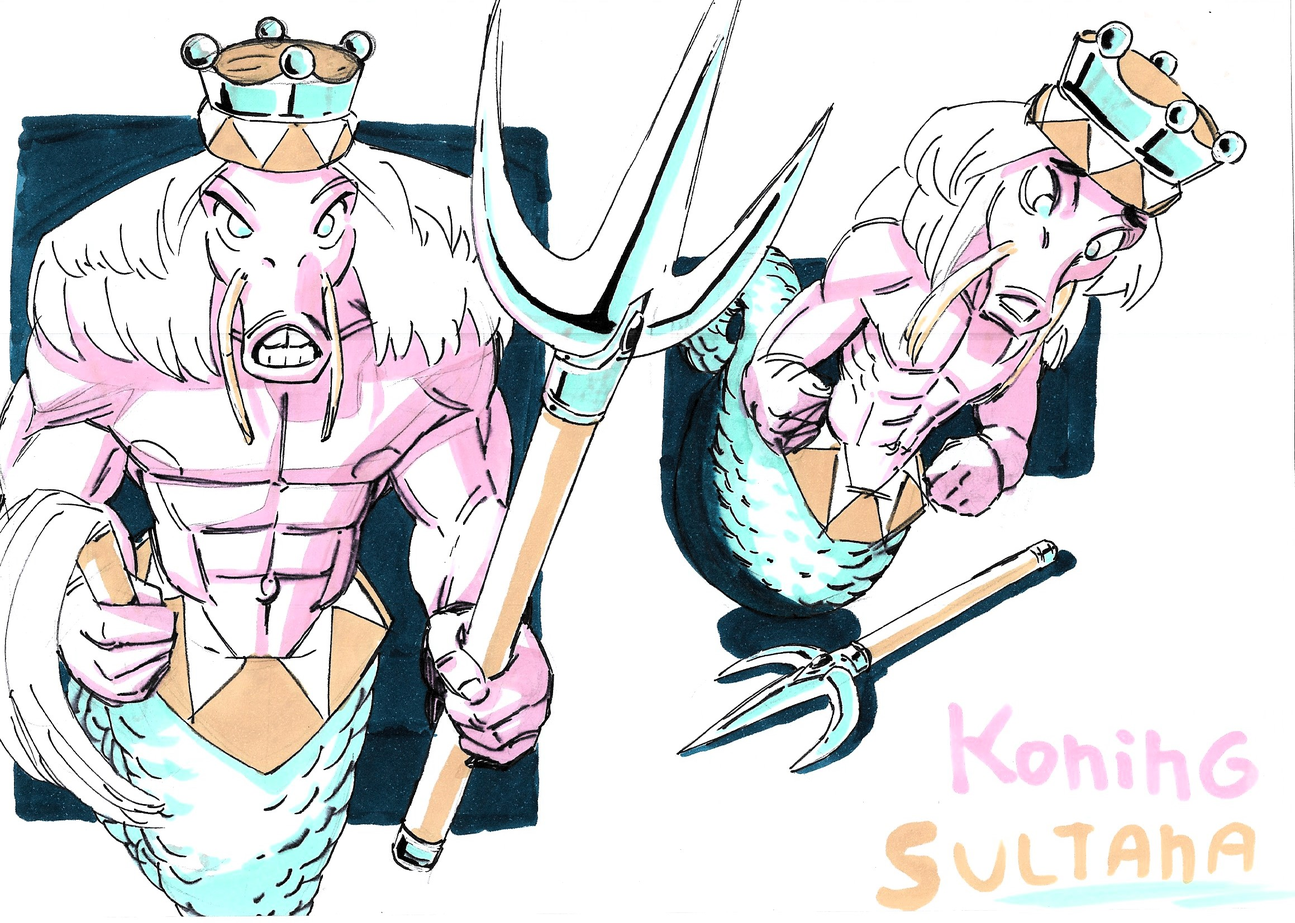
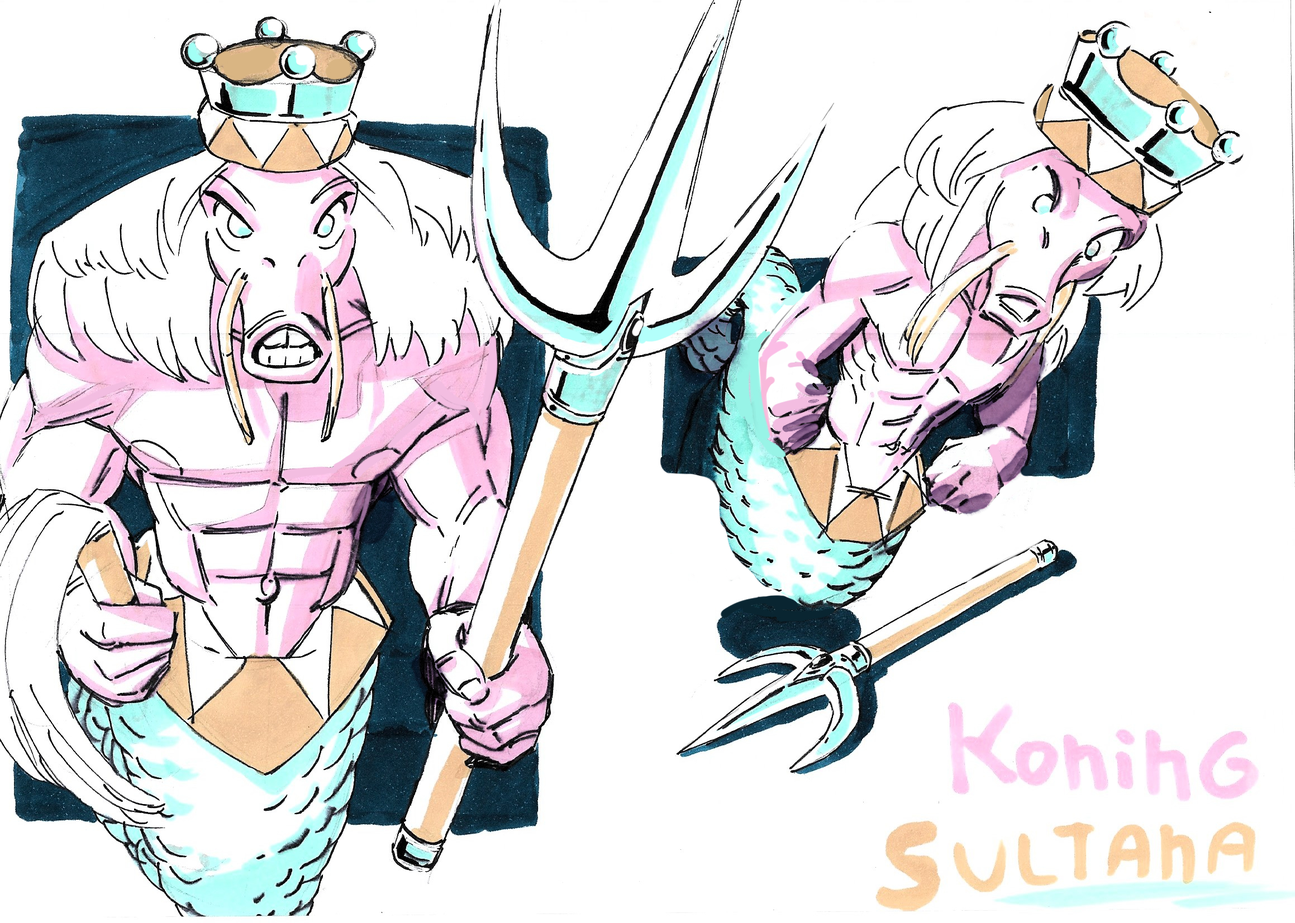
updated naar nederlands en koning sultana gecleaned

diff --git a/_layouts/home.html b/_layouts/home.html
@@ -6,7 +6,7 @@ title: Home
 
 <div class="intro-container">
   <div class="intro-text">
-    Hello I'm Damian. Welcome to my portfolio website.  </div>
+    Hallo, ik ben Damian. Welcome op mijn portfolio website.  </div>
   <img src="{{ site.github.url }}/assets/img/profile.jpeg" alt="Profile picture" class="profile" />
 </div>
 {% for post in paginator.posts %}
@@ -14,7 +14,7 @@ title: Home
 {% endfor %}
 
 <!-- Pagination links -->
-<div class="pagination">
+<!-- <div class="pagination">
   {% if paginator.next_page %}
     <a class="pagination-button pagination-active next" href="{{ site.github.url }}{{ paginator.next_page_path }}">{{ site.data.settings.pagination.previous_page }}</a>
   {% else %}
@@ -25,4 +25,4 @@ title: Home
   {% else %}
     <span class="pagination-button">{{ site.data.settings.pagination.next_page }}</span>
   {% endif %}
-</div>
+</div> -->

diff --git a/_layouts/post.html b/_layouts/post.html
@@ -6,9 +6,6 @@ layout: default
   <h1>
     {{ page.title }}
   </h1>
-  {% if site.hide_post_date != true %}
-    {% include post-date.html %}
-  {% endif %}
   {% if page.image %}
     <div class="featured-image">
       <img src="{{ site.github.url }}/assets/img/{{ page.image }}">

diff --git a/pages/contact.md b/pages/contact.md
@@ -3,5 +3,4 @@ layout: page
 title: Contact
 permalink: /contact
 ---
-
-Feel free to send emails about anything (commisions, job offers, advice, pictures of your cat, etc.) to damiankagenaar@gmail.com
+Voel je vrij om e-mails te sturen over van alles (opdrachten, baanaanbiedingen, advies, foto's van je kat, enz.) naar damiankagenaar@gmail.com

diff --git a/_posts/2018-04-01-animations.md b/_posts/2018-04-01-animations.md
@@ -7,6 +7,7 @@ tags: Illustrations
 image: animations/ufo4.gif
 ---
 ![animations](<../assets/img/animations/Cape Guy.gif>)
+![animations](../assets/img/animations/wobble.gif) 
 ![animations](../assets/img/animations/wobblstil.gif) 
 ![animations](../assets/img/animations/wobblvsbear.gif)
 ![animations](../assets/img/animations/bear.gif) 

diff --git a/pages/about.md b/pages/about.md
@@ -3,5 +3,5 @@ layout: page
 title: About
 permalink: /about
 ---
-
-I am Damian.
+![profile](../assets/img/profile.jpeg) 
+Hallo, Ik ben Damian. 25 jaar en woon in Enschede. Ik probeer professioneel striptekenaar te worden. Ben van plaatjes dan van woorden.
